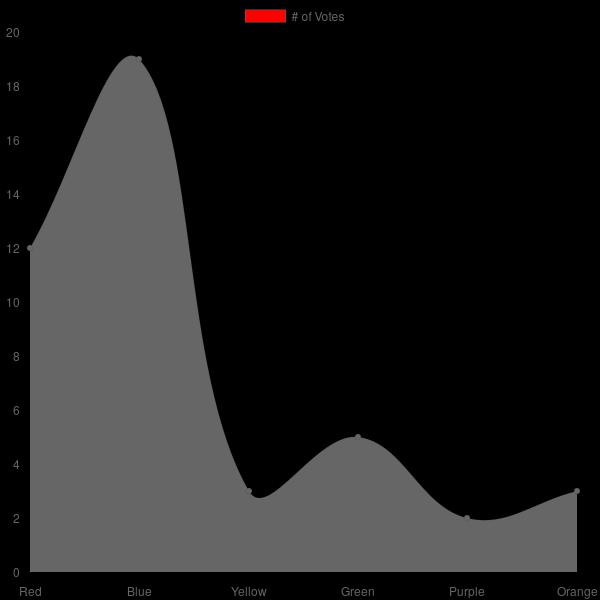
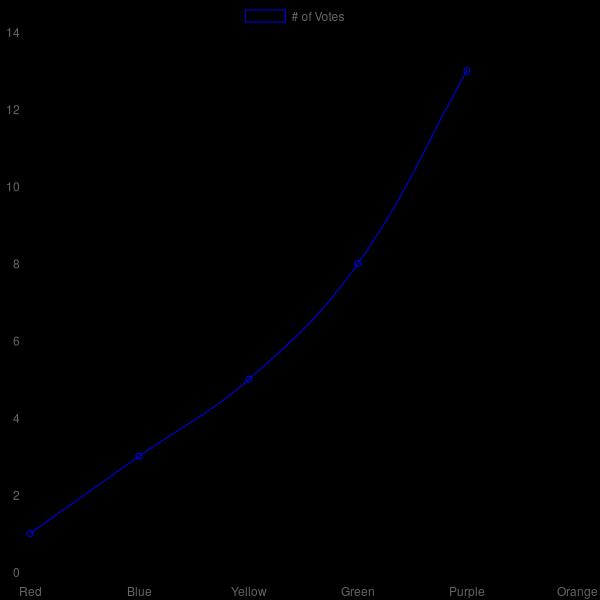
some improvements

diff --git a/index.js b/index.js
@@ -6,23 +6,8 @@ const opts = {
         labels: ["Red", "Blue", "Yellow", "Green", "Purple", "Orange"],
         datasets: [{
             label: '# of Votes',
-            data: [12, 19, 3, 5, 2, 3],
-            backgroundColor: [
-                'red',
-                'blue',
-                'yellow',
-                'magenta',
-                'black',
-                'purple'
-            ],
-            borderColor: [
-                'red',
-                'blue',
-                'yellow',
-                'magenta',
-                'black',
-                'purple'
-            ],
+            data: [1, 3, 5, 8, 13],
+            borderColor: 'blue',
             borderWidth: 1
         }]
     },
@@ -34,9 +19,7 @@ const opts = {
                 }
             }]
         },
-        chartArea: {
             backgroundColor: 'white'
-        }
     }
 }
 
